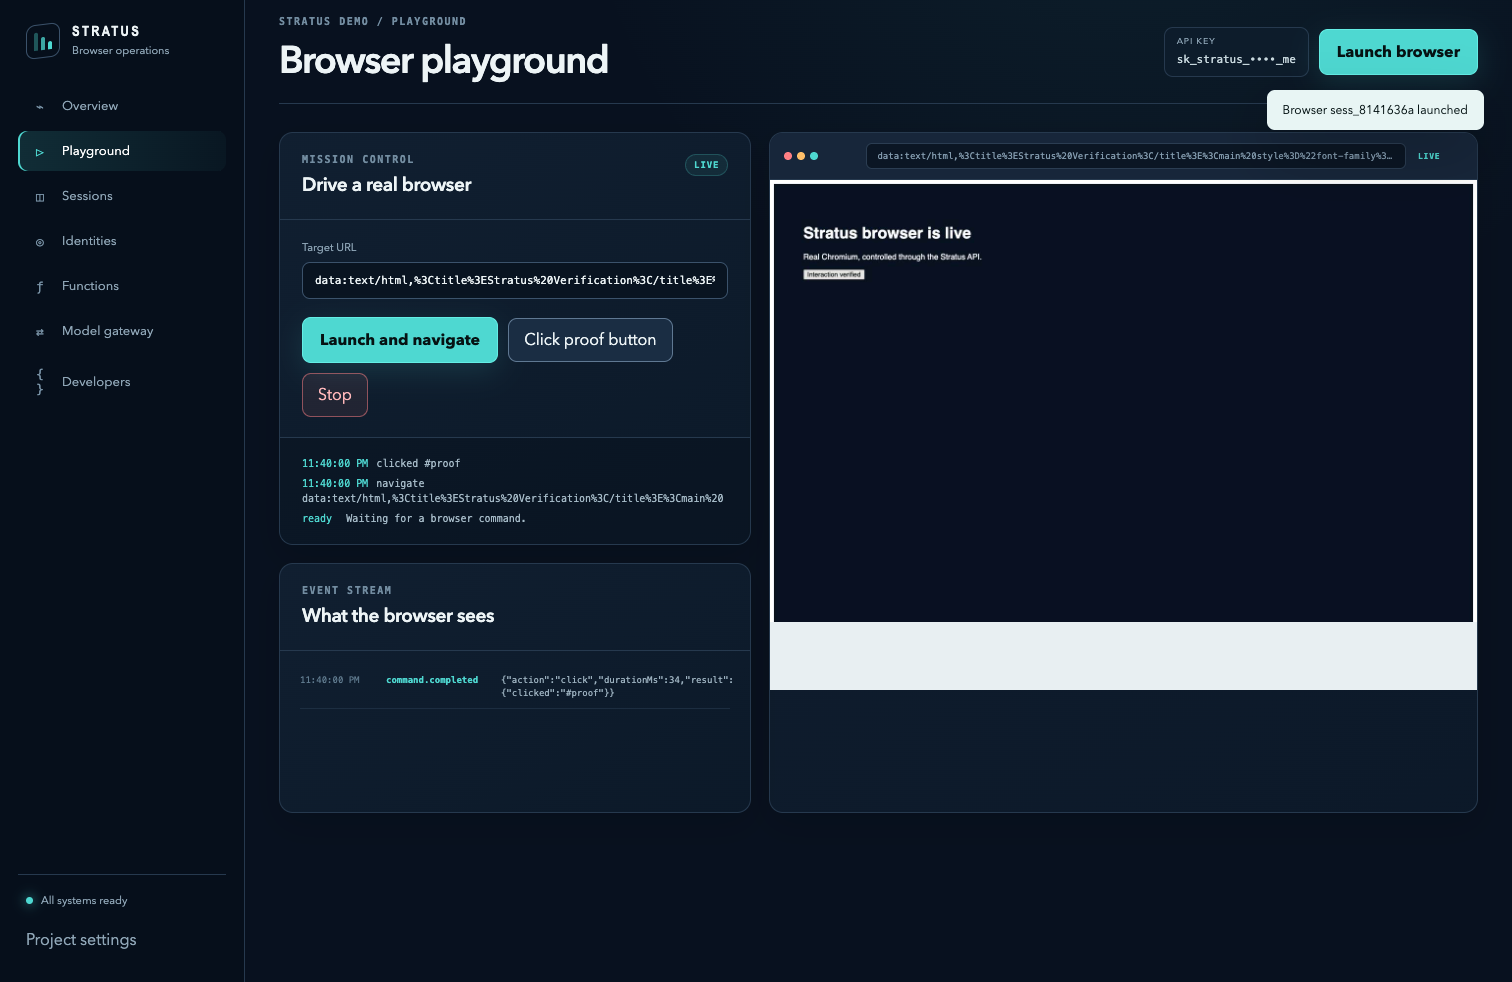
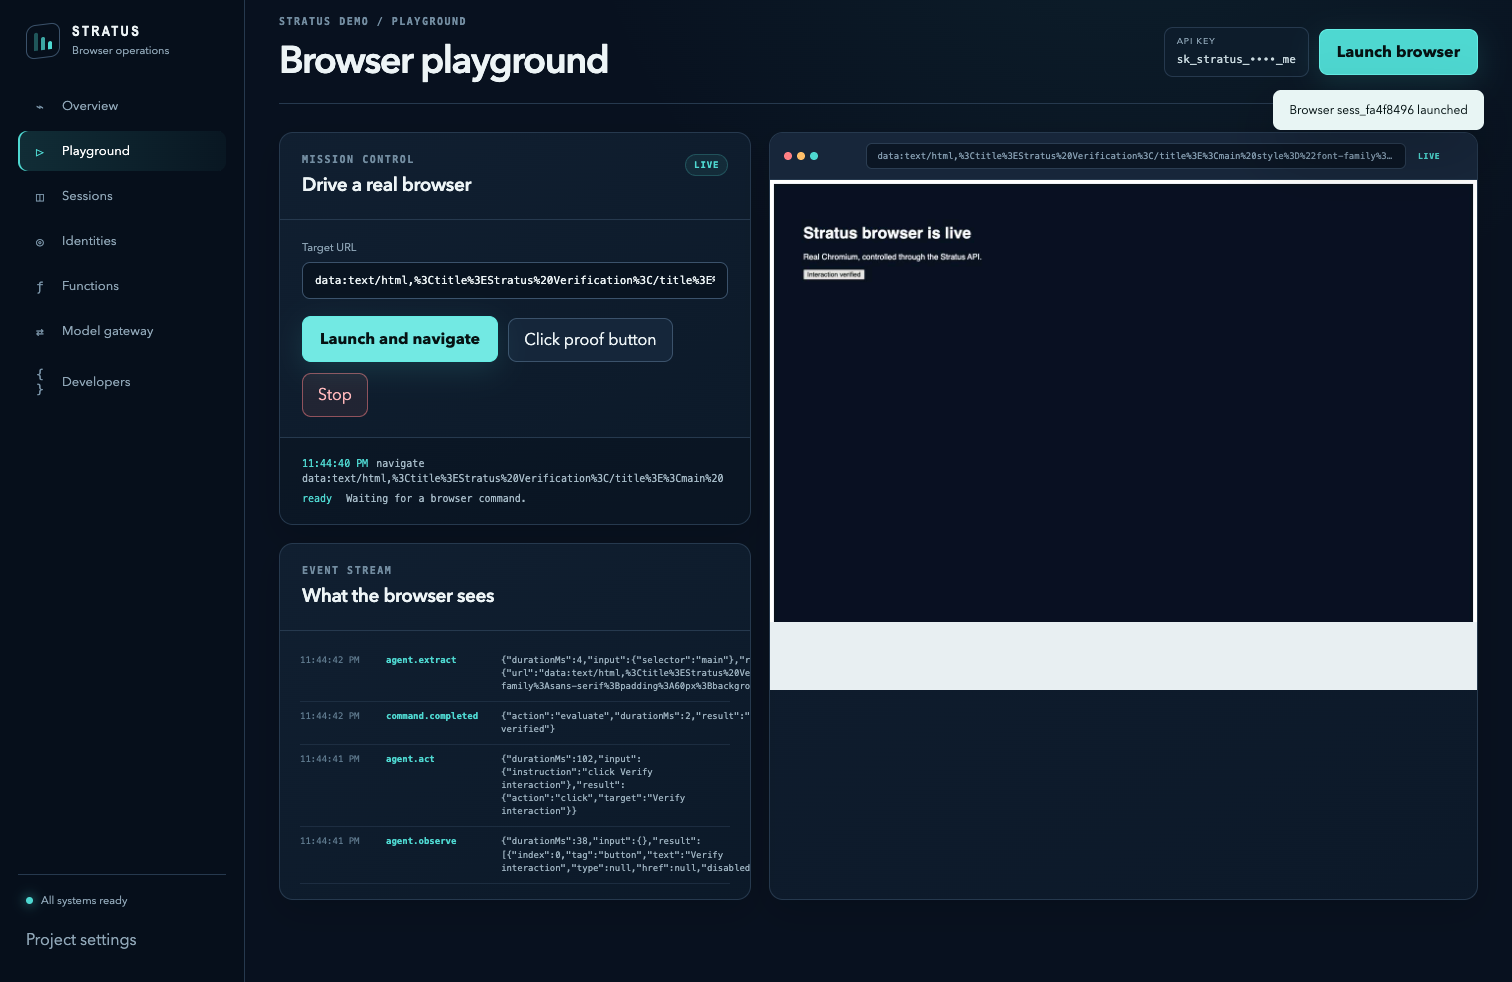
feat: add agent native browser primitives

diff --git a/src/browser-manager.js b/src/browser-manager.js
@@ -123,6 +123,56 @@ export class BrowserManager {
     return result;
   }
 
+  async agent(sessionId, operation, input = {}) {
+    const runtime = this.sessions.get(sessionId);
+    if (!runtime || runtime.simulated) throw Object.assign(new Error('Real browser runtime is not active'), { status: 409 });
+    const { page } = runtime;
+    const started = Date.now();
+    let result;
+    if (operation === 'observe') {
+      result = await page.locator('a,button,input,textarea,select,[role="button"]').evaluateAll((elements) => elements.slice(0, 100).map((element, index) => ({
+        index,
+        tag: element.tagName.toLowerCase(),
+        text: (element.innerText || element.getAttribute('aria-label') || element.getAttribute('placeholder') || '').trim().slice(0, 180),
+        type: element.getAttribute('type'),
+        href: element.getAttribute('href'),
+        disabled: Boolean(element.disabled),
+        visible: Boolean(element.getBoundingClientRect().width && element.getBoundingClientRect().height)
+      })).filter((item) => item.visible));
+    } else if (operation === 'act') {
+      const instruction = String(input.instruction || '').trim();
+      if (!instruction) throw Object.assign(new Error('instruction is required'), { status: 400 });
+      const clickMatch = instruction.match(/^(?:click|press|choose|select)\s+(?:the\s+)?["']?(.+?)["']?$/i);
+      const fillMatch = instruction.match(/^(?:fill|type|enter)\s+["']?(.+?)["']?\s+(?:into|in)\s+["']?(.+?)["']?$/i);
+      if (clickMatch) {
+        const target = clickMatch[1].replace(/\s+(?:button|link)$/i, '');
+        const locator = page.getByRole('button', { name: target, exact: false }).or(page.getByRole('link', { name: target, exact: false })).or(page.getByText(target, { exact: false }));
+        await locator.first().click({ timeout: Number(input.timeout || 10_000) });
+        result = { action: 'click', target };
+      } else if (fillMatch) {
+        const [, value, target] = fillMatch;
+        const locator = page.getByLabel(target, { exact: false }).or(page.getByPlaceholder(target, { exact: false }));
+        await locator.first().fill(value, { timeout: Number(input.timeout || 10_000) });
+        result = { action: 'fill', target, value };
+      } else {
+        throw Object.assign(new Error('Instruction is not actionable. Start with click, press, fill, type, or enter.'), { status: 422, code: 'UNSUPPORTED_INSTRUCTION' });
+      }
+    } else if (operation === 'extract') {
+      const selector = input.selector || 'body';
+      const locator = page.locator(selector).first();
+      result = {
+        url: page.url(),
+        title: await page.title(),
+        text: (await locator.innerText()).trim(),
+        attributes: input.attributes ? Object.fromEntries(await Promise.all(input.attributes.map(async (name) => [name, await locator.getAttribute(name)]))) : undefined
+      };
+    } else {
+      throw Object.assign(new Error(`Unknown agent operation: ${operation}`), { status: 400 });
+    }
+    this.emit(sessionId, `agent.${operation}`, { durationMs: Date.now() - started, input, result });
+    return result;
+  }
+
   async liveFrame(sessionId) {
     const runtime = this.sessions.get(sessionId);
     if (!runtime || runtime.simulated) return null;

diff --git a/test/api.test.js b/test/api.test.js
@@ -1,5 +1,6 @@
 import test from 'node:test';
 import assert from 'node:assert/strict';
+import http from 'node:http';
 import { createApp } from '../src/server.js';
 
 async function withApp(run) {
@@ -31,6 +32,11 @@ test('API covers project, context, function, model, and usage flows', async () =
   const usage = await (await request(base, '/v1/usage')).json();
   assert.equal(usage.concurrentLimit, 100);
   assert.equal(usage.browserHoursAllowance, 500);
+  const fetched = await (await request(base, '/v1/fetch', { method: 'POST', body: JSON.stringify({ url: `${base}/health` }) })).json();
+  assert.equal(fetched.status, 200);
+  assert.match(fetched.text, /status/);
+  const extension = await (await request(base, '/v1/extensions', { method: 'POST', body: JSON.stringify({ name: 'test-extension', contentBase64: Buffer.from('extension-bytes').toString('base64') }) })).json();
+  assert.equal(extension.bytes, 15);
 }));
 
 test('simulated session API records lifecycle and events without consuming browser compute', async () => withApp(async (base) => {
@@ -44,3 +50,27 @@ test('simulated session API records lifecycle and events without consuming brows
   assert.ok(events.some((event) => event.type === 'session.started'));
   assert.ok(events.some((event) => event.type === 'session.ended'));
 }));
+
+test('signed webhooks deliver session lifecycle events', async () => {
+  const deliveries = [];
+  const receiver = http.createServer(async (req, res) => {
+    const chunks = [];
+    for await (const chunk of req) chunks.push(chunk);
+    deliveries.push({ signature: req.headers['x-stratus-signature'], body: JSON.parse(Buffer.concat(chunks).toString('utf8')) });
+    res.writeHead(204).end();
+  });
+  await new Promise((resolve) => receiver.listen(0, '127.0.0.1', resolve));
+  const receiverUrl = `http://127.0.0.1:${receiver.address().port}/events`;
+  try {
+    await withApp(async (base) => {
+      const webhook = await (await request(base, '/v1/webhooks', { method: 'POST', body: JSON.stringify({ url: receiverUrl, events: ['session.started'], secret: 'verification-secret' }) })).json();
+      assert.match(webhook.id, /^wh_/);
+      await request(base, '/v1/sessions', { method: 'POST', body: JSON.stringify({ simulated: true }) });
+      assert.equal(deliveries.length, 1);
+      assert.equal(deliveries[0].body.type, 'session.started');
+      assert.match(deliveries[0].signature, /^[a-f0-9]{64}$/);
+    });
+  } finally {
+    await new Promise((resolve) => receiver.close(resolve));
+  }
+});

diff --git a/src/server.js b/src/server.js
@@ -85,6 +85,8 @@ export function createApp({ database = path.join(config.dataDir, 'stratus.db') }
 
       const commandMatch = route.match(/^\/v1\/sessions\/([^/]+)\/commands$/);
       if (commandMatch && req.method === 'POST') return json(res, 200, await browsers.command(commandMatch[1], await readJson(req)));
+      const agentMatch = route.match(/^\/v1\/sessions\/([^/]+)\/(observe|act|extract)$/);
+      if (agentMatch && req.method === 'POST') return json(res, 200, await browsers.agent(agentMatch[1], agentMatch[2], await readJson(req)));
       const eventMatch = route.match(/^\/v1\/sessions\/([^/]+)\/(recording|logs|network)$/);
       if (eventMatch && req.method === 'GET') {
         const all = store.events(eventMatch[1]);
@@ -254,6 +256,9 @@ function openApi(baseUrl) {
       '/v1/sessions': { get: { summary: 'List sessions' }, post: { summary: 'Create a browser session' } },
       '/v1/sessions/{id}': { get: { summary: 'Get a session' }, post: { summary: 'Release a session' } },
       '/v1/sessions/{id}/commands': { post: { summary: 'Control a browser session' } },
+      '/v1/sessions/{id}/observe': { post: { summary: 'Observe interactive page elements' } },
+      '/v1/sessions/{id}/act': { post: { summary: 'Act from a natural-language instruction' } },
+      '/v1/sessions/{id}/extract': { post: { summary: 'Extract page content' } },
       '/v1/contexts': { get: { summary: 'List contexts' }, post: { summary: 'Create a context' } },
       '/v1/search': { post: { summary: 'Search the web' } }, '/v1/fetch': { post: { summary: 'Fetch a page' } },
       '/v1/functions': { get: { summary: 'List functions' }, post: { summary: 'Create a function' } },

diff --git a/packages/sdk/index.js b/packages/sdk/index.js
@@ -9,7 +9,10 @@ export class Stratus {
       retrieve: (sessionId) => this.request(`/v1/sessions/${sessionId}`),
       release: (sessionId) => this.request(`/v1/sessions/${sessionId}`, { method: 'POST', body: { status: 'REQUEST_RELEASE' } }),
       command: (sessionId, command) => this.request(`/v1/sessions/${sessionId}/commands`, { method: 'POST', body: command }),
-      recording: (sessionId) => this.request(`/v1/sessions/${sessionId}/recording`)
+      recording: (sessionId) => this.request(`/v1/sessions/${sessionId}/recording`),
+      observe: (sessionId, input = {}) => this.request(`/v1/sessions/${sessionId}/observe`, { method: 'POST', body: input }),
+      act: (sessionId, instruction, options = {}) => this.request(`/v1/sessions/${sessionId}/act`, { method: 'POST', body: { instruction, ...options } }),
+      extract: (sessionId, input = {}) => this.request(`/v1/sessions/${sessionId}/extract`, { method: 'POST', body: input })
     };
     this.contexts = { create: (input = {}) => this.request('/v1/contexts', { method: 'POST', body: input }), list: () => this.request('/v1/contexts') };
     this.search = (query, options = {}) => this.request('/v1/search', { method: 'POST', body: { query, ...options } });

diff --git a/README.md b/README.md
@@ -12,6 +12,7 @@ Stratus is a clean-room, self-hostable browser-agent cloud. It combines managed 
 - Strict 500 browser-hour project allowance and real-time usage accounting
 - Search provider adapter and SSRF-protected fetch endpoint
 - Sandboxed JavaScript functions with logs, timeouts, inputs, outputs, and schedules metadata
+- Agent-native `observe`, `act`, and `extract` primitives on live browser sessions
 - OpenAI-compatible chat completion gateway with an offline deterministic provider
 - Signed webhooks with three bounded delivery attempts
 - Extension metadata upload, audit log, health, readiness, metrics, and OpenAPI endpoints
@@ -49,6 +50,8 @@ curl -X POST http://localhost:4100/v1/sessions/SESSION_ID/commands \
 ```
 
 Supported command actions are `navigate`, `click`, `fill`, `evaluate`, `content`, and `screenshot`.
+
+Agent primitives are available at `POST /v1/sessions/:id/observe`, `/act`, and `/extract`. They inspect interactive elements, translate concise instructions such as `click Verify interaction`, and return clean structured page content.
 
 ## SDK
 
